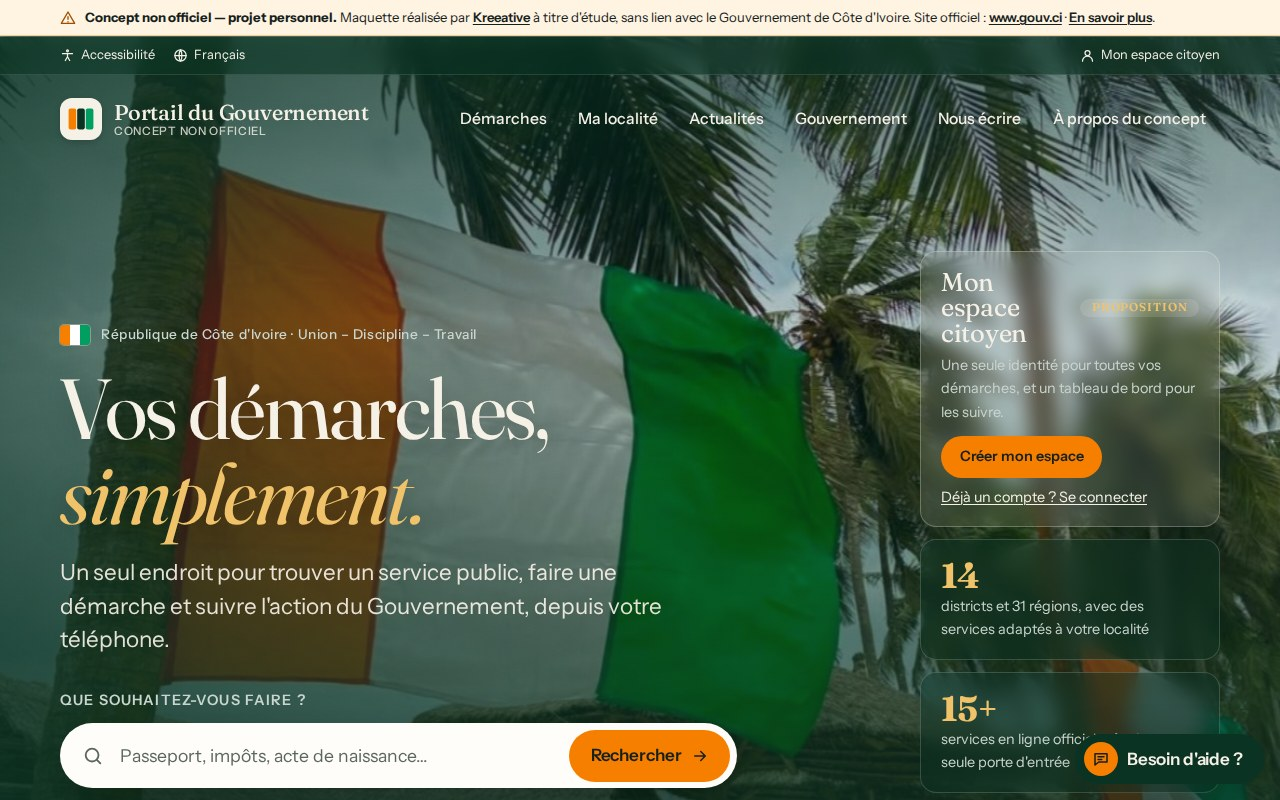
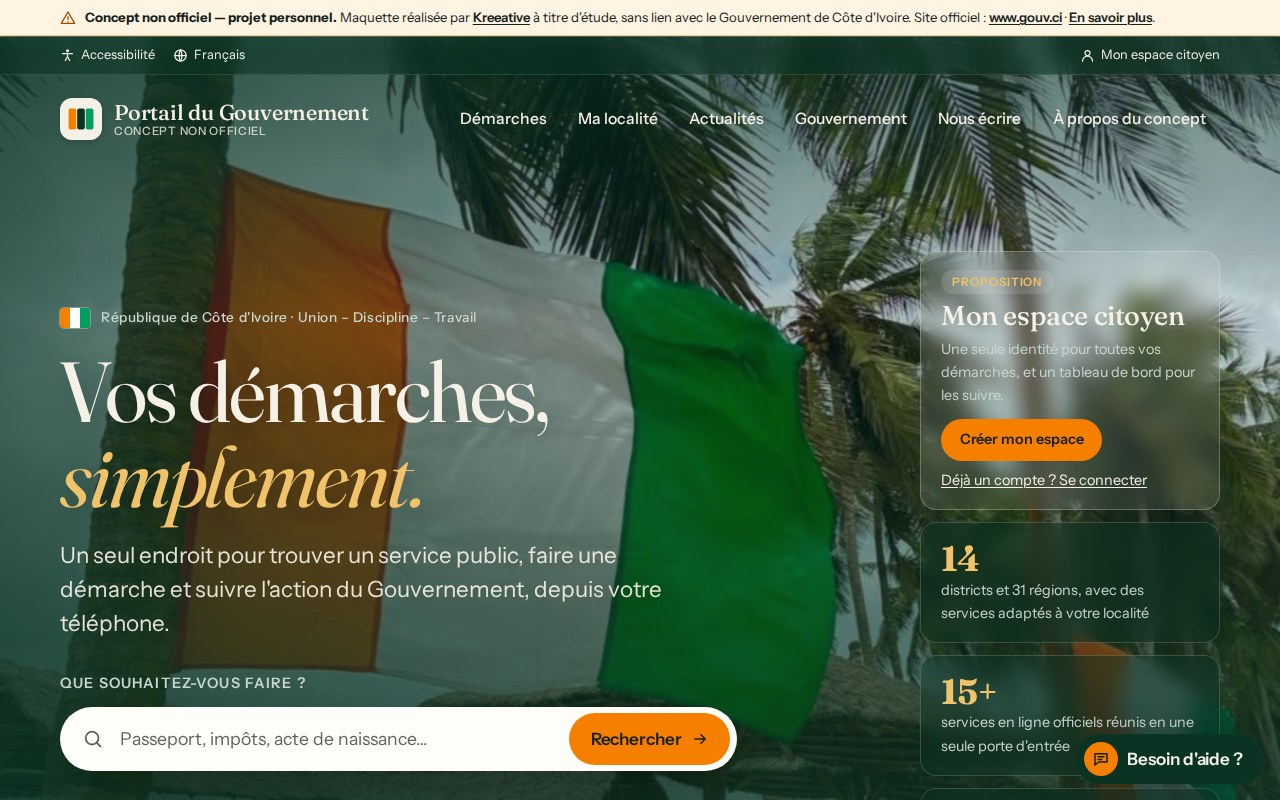
Carte « Mon espace citoyen » : étiquette au-dessus du titre, titre sur une ligne
Claude-Session: https://claude.ai/code/session_01F8s2YPks3d8GauE4svLiS3

diff --git a/assets/css/styles.css b/assets/css/styles.css
@@ -407,7 +407,8 @@ main:focus { outline: none; }
   background: rgba(246, 241, 231, 0.1); border: 1px solid rgba(246, 241, 231, 0.28); backdrop-filter: blur(10px); -webkit-backdrop-filter: blur(10px);
 }
 .hero__account p { margin: 0; font-size: var(--t-sm); color: var(--muted-on-dark); }
-.hero__account .hero__account-title { margin: 0; font-family: var(--f-display); font-size: 1.6rem; line-height: 1; letter-spacing: -0.01em; color: var(--cream); display: flex; align-items: center; justify-content: space-between; gap: 0.5rem; }
+.hero__account .tag { justify-self: start; }
+.hero__account .hero__account-title { margin: 0; font-family: var(--f-display); font-size: 1.7rem; line-height: 1; letter-spacing: -0.015em; color: var(--cream); font-weight: 500; }
 .hero__account-actions { display: flex; flex-wrap: wrap; align-items: center; gap: 0.5rem 1rem; margin-top: 0.25rem; }
 .hero__account-login { color: var(--cream); font-size: var(--t-sm); }
 .hero__stat {

diff --git a/index.html b/index.html
@@ -149,7 +149,8 @@
 
       <aside class="hero__aside" aria-label="Repères">
         <div class="hero__account">
-          <p class="hero__account-title">Mon espace citoyen <span class="tag">Proposition</span></p>
+          <span class="tag">Proposition</span>
+          <p class="hero__account-title">Mon espace citoyen</p>
           <p>Une seule identité pour toutes vos démarches, et un tableau de bord pour les suivre.</p>
           <div class="hero__account-actions">
             <a class="btn btn--accent btn--sm" href="a-propos.html#espace-citoyen">Créer mon espace</a>
